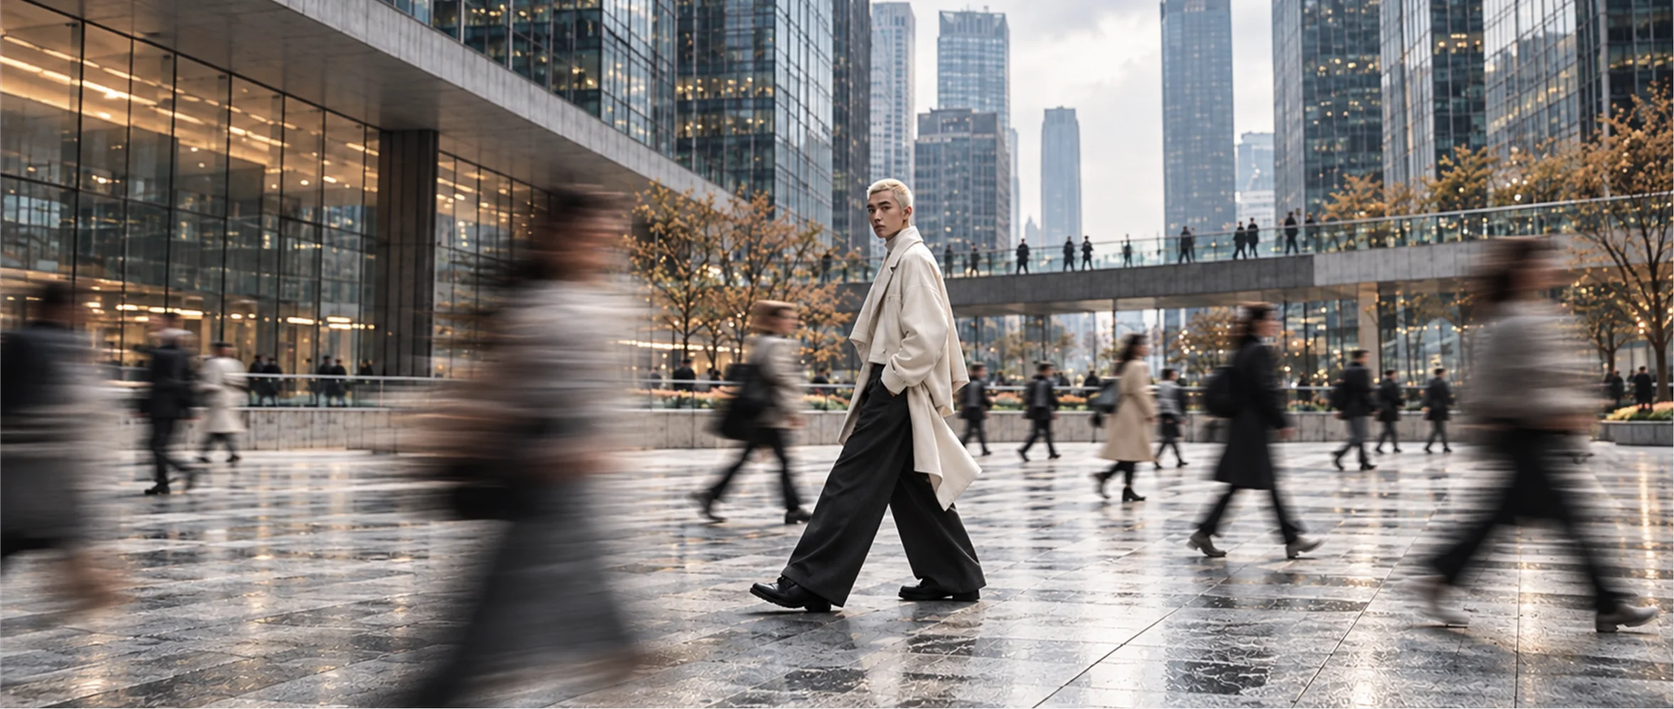
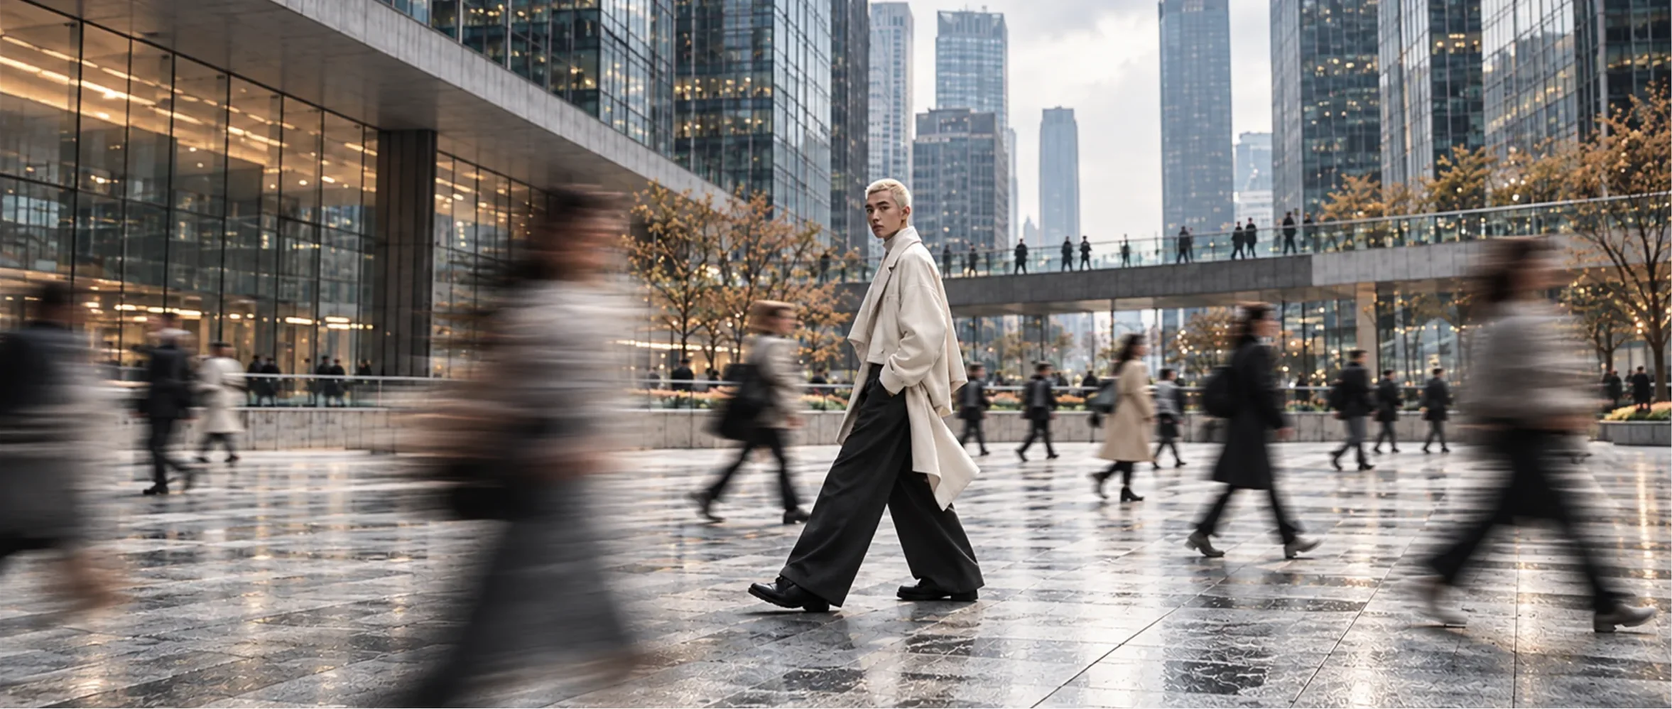
Cover both window margins with full-width photos
The bleed scale only guaranteed coverage on one side, so a strip of the
gradient over white showed at the left of the hero on wide windows.

diff --git a/index.html b/index.html
@@ -187,7 +187,7 @@ COAT</span></div><div class="n t" style="left:1744.4px;top:279.36px;width:66.67p
 <section class="screen" data-set="1920" data-slug="outfit" data-title="18 Outfit – Structured Balance" style="background:linear-gradient(#ffffff,#ffffff)"><div class="n" style="left:0px;top:0px;width:1920px;height:111.96px;background:linear-gradient(#ffffff,#ffffff)" data-b="0,0,1920,111.96" data-o="0,0,1920,112"><div class="n link t" style="left:795.07px;top:44.04px;width:65.33px;white-space:pre" data-b="795.07,44.04,65.33,22.67" data-go="looks"><span style="font-family:'Geist';font-weight:500;font-size:17px;letter-spacing:0.12em;line-height:22.67px;color:#121212">LOOKS</span></div><div class="n" style="left:795.07px;top:75.96px;width:65.07px;height:2px;background:linear-gradient(#121212,#121212)" data-b="795.07,75.96,65.07,2"></div><div class="n link t" style="left:917.07px;top:44.04px;width:74.67px;white-space:pre" data-b="917.07,44.04,74.67,22.67" data-go="fitting"><span style="font-family:'Geist';font-weight:500;font-size:17px;letter-spacing:0.12em;line-height:22.67px;color:#121212">FITTING</span></div><div class="n link t" style="left:1045.07px;top:44.04px;width:93.33px;white-space:pre" data-b="1045.07,44.04,93.33,22.67" data-go="motion-cards"><span style="font-family:'Geist';font-weight:500;font-size:17px;letter-spacing:0.12em;line-height:22.67px;color:#121212">JOURNAL</span></div><div class="n link" style="left:1833.07px;top:45.96px;width:34px;height:24px;overflow:hidden" data-b="1833.07,45.96,34,24" data-menu="1"><div class="n" style="left:1.07px;top:1.07px;width:32px;height:22px" data-b="1.07,1.07,32,22"><svg width="100%" height="100%" preserveAspectRatio="none" viewBox="0 0 24 17" fill="none" xmlns="http://www.w3.org/2000/svg"><path d="M0 0.75H24M0 8.25H24M0 15.75H24" stroke="#111111" stroke-width="1.5"/></svg></div></div></div><div class="n link photo" style="left:191.07px;top:168.96px;width:584px;height:795px;background:url(assets/img/05_structured_front.webp) center / cover no-repeat;border-radius:22px" data-b="191.07,168.96,584,795" data-o="191,169,584,795" data-go="look-a"></div><div class="n t" style="left:916px;top:141.96px;width:70.67px;white-space:pre" data-b="916,141.96,70.67,69.33" data-o="916,142,70,70"><span style="font-family:'Doto';font-weight:900;font-size:58px;line-height:69.33px;color:#121212">05</span></div><div class="n t" style="left:1023.07px;top:168px;width:94.67px;white-space:pre" data-b="1023.07,168,94.67,24" data-o="1023,168,95,23"><span style="font-family:'Geist';font-weight:400;font-size:18px;letter-spacing:0.18em;line-height:24px;color:#121212">LOOK 05</span></div><div class="n" style="left:1023.07px;top:209.04px;width:114px;height:1px;background:linear-gradient(#121212,#121212)" data-b="1023.07,209.04,114,1" data-o="1023,209,114,1"></div><div class="n t" style="left:915.07px;top:216px;width:837.33px;white-space:pre" data-b="915.07,216,837.33,100" data-o="915,216,837,100"><span style="font-family:'Geist';font-weight:400;font-size:77px;letter-spacing:-0.02em;line-height:100px;color:#121212">STRUCTURED BALANCE</span></div><div class="n t" style="left:919.07px;top:360px;width:192px;white-space:pre" data-b="919.07,360,192,24" data-o="919,360,192,23"><span style="font-family:'Geist';font-weight:400;font-size:18px;letter-spacing:0.25em;line-height:24px;color:#121212">OUTFIT DETAILS</span></div><div class="n" style="left:1145.07px;top:381px;width:654px;height:1px;background:linear-gradient(#121212,#121212)" data-b="1145.07,381,654,1" data-o="1145,381,654,1"></div><div class="n" style="left:922px;top:419.04px;width:166px;height:203.04px;background:url(assets/img/13_charcoal_coat_flatlay.webp) center / cover no-repeat;border-radius:16px" data-b="922,419.04,166,203.04" data-o="922,419,166,203"></div><div class="n t" style="left:1122px;top:447.96px;width:290.67px;white-space:pre" data-b="1122,447.96,290.67,33.33" data-o="1122,448,291,34"><span style="font-family:'Geist';font-weight:400;font-size:26px;line-height:33.33px;color:#121212">COAT 01 / WOOL DENIM</span></div><div class="n t" style="left:1122px;top:519.96px;width:86.67px;white-space:pre" data-b="1122,519.96,86.67,20" data-o="1122,520,87,20"><span style="font-family:'Geist';font-weight:400;font-size:15px;letter-spacing:0.15em;line-height:20px;color:#808080">MATERIAL</span></div><div class="n t" style="left:1282px;top:519.96px;width:116px;white-space:pre" data-b="1282,519.96,116,20" data-o="1282,520,116,20"><span style="font-family:'Geist';font-weight:400;font-size:15px;letter-spacing:0.15em;line-height:20px;color:#121212">WOOL DENIM</span></div><div class="n t" style="left:1122px;top:552px;width:82.67px;white-space:pre" data-b="1122,552,82.67,20" data-o="1122,552,83,20"><span style="font-family:'Geist';font-weight:400;font-size:15px;letter-spacing:0.15em;line-height:20px;color:#808080">RETAILER</span></div><div class="n t" style="left:1282px;top:552px;width:80px;white-space:pre" data-b="1282,552,80,20" data-o="1282,552,80,20"><span style="font-family:'Geist';font-weight:400;font-size:15px;letter-spacing:0.15em;line-height:20px;color:#121212">THE ROW</span></div><div class="n" style="left:1526px;top:453.96px;width:1px;height:144.96px;background:linear-gradient(#121212,#121212)" data-b="1526,453.96,1,144.96" data-o="1526,454,1,145"></div><div class="n t" style="left:1569.07px;top:459.96px;width:129.33px;white-space:pre" data-b="1569.07,459.96,129.33,18.67" data-o="1569,460,129,18"><span style="font-family:'Geist';font-weight:400;font-size:14px;letter-spacing:0.25em;line-height:18.67px;color:#121212">AVAILABLE AT</span></div><div class="n" style="left:1566px;top:503.04px;width:233.07px;height:63.96px;background:linear-gradient(#121212,#121212);border-radius:32px;overflow:hidden" data-b="1566,503.04,233.07,63.96" data-o="1566,503,233,64"><div class="n t" style="left:23.07px;top:23.04px;width:116px;white-space:pre" data-b="23.07,23.04,116,20" data-o="23,22,116,20"><span style="font-family:'Geist';font-weight:400;font-size:15px;letter-spacing:0.2em;line-height:20px;color:#ffffff">VISIT STORE</span></div><div class="n" style="left:188px;top:20.98px;width:22px;height:22px;overflow:hidden" data-b="188,20.98,22,22" data-o="188,21,22,22"><div class="n" style="left:4.93px;top:4.8px;width:12.27px;height:12.27px" data-b="4.93,4.8,12.27,12.27" data-o="5.5,5.5,11,11"><svg width="100%" height="100%" preserveAspectRatio="none" viewBox="0 0 10 10" fill="none" xmlns="http://www.w3.org/2000/svg"><path d="M0.397705 8.8125L8.64771 0.5625M8.64771 7.4375V0.5625H1.77271" stroke="white" stroke-width="1.125"/></svg></div></div></div><div class="n" style="left:922px;top:654px;width:878px;height:1px;background:linear-gradient(#121212,#121212)" data-b="922,654,878,1" data-o="922,654,878,1"></div><div class="n t" style="left:922px;top:687.96px;width:304px;white-space:pre" data-b="922,687.96,304,33.33" data-o="922,688,304,34"><span style="font-family:'Geist';font-weight:400;font-size:26px;letter-spacing:0.04em;line-height:33.33px;color:#121212">KNIT 02 / FINE MERINO</span></div><div class="n" style="left:1765.07px;top:691.03px;width:25.07px;height:25.07px;overflow:hidden" data-b="1765.07,691.03,25.07,25.07" data-o="1765,691,25,25"><div class="n" style="left:3.07px;top:3.07px;width:18.8px;height:18.8px" data-b="3.07,3.07,18.8,18.8" data-o="3.1,3.1,18.8,18.8"><svg width="100%" height="100%" preserveAspectRatio="none" viewBox="0 0 15 15" fill="none" xmlns="http://www.w3.org/2000/svg"><path d="M7.03125 0V14.0625M0 7.03125H14.0625" stroke="#111111" stroke-width="1.05"/></svg></div></div><div class="n" style="left:922px;top:747px;width:878px;height:1px;background:linear-gradient(#121212,#121212)" data-b="922,747,878,1" data-o="922,747,878,1"></div><div class="n t" style="left:922px;top:774.96px;width:360px;white-space:pre" data-b="922,774.96,360,33.33" data-o="922,775,360,34"><span style="font-family:'Geist';font-weight:400;font-size:26px;letter-spacing:0.04em;line-height:33.33px;color:#121212">TROUSER 03 / FLUID WOOL</span></div><div class="n" style="left:1765.07px;top:778.03px;width:25.07px;height:25.07px;overflow:hidden" data-b="1765.07,778.03,25.07,25.07" data-o="1765,778,25,25"><div class="n" style="left:3.07px;top:3.07px;width:18.8px;height:18.8px" data-b="3.07,3.07,18.8,18.8" data-o="3.1,3.1,18.8,18.8"><svg width="100%" height="100%" preserveAspectRatio="none" viewBox="0 0 15 15" fill="none" xmlns="http://www.w3.org/2000/svg"><path d="M7.03125 0V14.0625M0 7.03125H14.0625" stroke="#111111" stroke-width="1.05"/></svg></div></div><div class="n" style="left:922px;top:834px;width:878px;height:1px;background:linear-gradient(#121212,#121212)" data-b="922,834,878,1" data-o="922,834,878,1"></div><div class="n link btn" style="left:922px;top:885.96px;width:878px;height:63px;background:linear-gradient(#121212,#121212);border-radius:32px;overflow:hidden" data-b="922,885.96,878,63" data-o="922,886,878,63" data-go="look-a"><div class="n link t" style="left:290.67px;top:19.56px;width:222.67px;white-space:pre" data-b="290.67,19.56,222.67,26.67" data-o="290.5,18,223,27" data-go="look-a"><span style="font-family:'Geist';font-weight:400;font-size:21px;letter-spacing:0.18em;line-height:26.67px;color:#ffffff">OPEN FULL LOOK</span></div><div class="n" style="left:562.4px;top:19.03px;width:25.07px;height:25.07px;overflow:hidden" data-b="562.4,19.03,25.07,25.07" data-o="562.5,19,25,25"><div class="n" style="left:5.73px;top:5.47px;width:13.73px;height:13.73px" data-b="5.73,5.47,13.73,13.73" data-o="6.3,6.3,12.5,12.5"><svg width="100%" height="100%" preserveAspectRatio="none" viewBox="0 0 11 11" fill="none" xmlns="http://www.w3.org/2000/svg"><path d="M0.397705 9.9375L9.77271 0.5625M9.77271 8.375V0.5625H1.96021" stroke="white" stroke-width="1.125"/></svg></div></div></div><div class="n t" style="left:1207.07px;top:969.96px;width:270.67px;white-space:pre" data-b="1207.07,969.96,270.67,20" data-o="1207,970,270,20"><span style="font-family:'Geist';font-weight:400;font-size:15px;line-height:20px;color:#808080">You’ll continue on the retailer’s website.</span></div><div class="n logo link" style="left:53.33px;top:27.6px;width:130.27px;height:44px;background:#070706" data-b="53.33,27.6,130.27,44" data-go="hero"></div></section>
 <section class="screen" data-set="1920" data-slug="motion-cards" data-title="19 Home – Clothes in Motion Cards" style="background:linear-gradient(#ffffff,#ffffff)"><div class="n" style="left:0px;top:0px;width:1920px;height:111.96px;background:linear-gradient(#ffffff,#ffffff)" data-b="0,0,1920,111.96" data-o="0,0,1920,112"><div class="n link t" style="left:795.07px;top:44.04px;width:65.33px;white-space:pre" data-b="795.07,44.04,65.33,22.67" data-go="looks"><span style="font-family:'Geist';font-weight:500;font-size:17px;letter-spacing:0.12em;line-height:22.67px;color:#121212">LOOKS</span></div><div class="n" style="left:795.07px;top:75.96px;width:65.07px;height:2px;background:linear-gradient(#121212,#121212)" data-b="795.07,75.96,65.07,2"></div><div class="n link t" style="left:917.07px;top:44.04px;width:74.67px;white-space:pre" data-b="917.07,44.04,74.67,22.67" data-go="fitting"><span style="font-family:'Geist';font-weight:500;font-size:17px;letter-spacing:0.12em;line-height:22.67px;color:#121212">FITTING</span></div><div class="n link t" style="left:1045.07px;top:44.04px;width:93.33px;white-space:pre" data-b="1045.07,44.04,93.33,22.67" data-go="motion-cards"><span style="font-family:'Geist';font-weight:500;font-size:17px;letter-spacing:0.12em;line-height:22.67px;color:#121212">JOURNAL</span></div><div class="n link" style="left:1833.07px;top:45.96px;width:34px;height:24px;overflow:hidden" data-b="1833.07,45.96,34,24" data-menu="1"><div class="n" style="left:1.07px;top:1.07px;width:32px;height:22px" data-b="1.07,1.07,32,22"><svg width="100%" height="100%" preserveAspectRatio="none" viewBox="0 0 24 17" fill="none" xmlns="http://www.w3.org/2000/svg"><path d="M0 0.75H24M0 8.25H24M0 15.75H24" stroke="#111111" stroke-width="1.5"/></svg></div></div></div><div class="n link photo" style="left:52px;top:122.04px;width:628px;height:828px;background:url(assets/img/05_structured_front.webp) center / cover no-repeat;border-radius:25.07px" data-b="52,122.04,628,828" data-o="52,122,628,828" data-go="looks"></div><div class="n t" style="left:49.07px;top:954.96px;width:53.33px;white-space:pre" data-b="49.07,954.96,53.33,53.33" data-o="49,955,53,53"><span style="font-family:'Doto';font-weight:900;font-size:44px;line-height:53.33px;color:#121212">01</span></div><div class="n t" style="left:139.07px;top:978px;width:93.33px;white-space:pre" data-b="139.07,978,93.33,18.67" data-o="139,978,93,18"><span style="font-family:'Geist';font-weight:400;font-size:14px;letter-spacing:0.2em;line-height:18.67px;color:#121212">TAILORING</span></div><div class="n t" style="left:738px;top:348.96px;width:445.33px;white-space:pre" data-b="738,348.96,445.33,168" data-o="738,349,446,168"><span style="font-family:'Geist';font-weight:400;font-size:91px;letter-spacing:-0.02em;line-height:92%;color:#121212">CLOTHES
 IN MOTION</span></div><div class="n t" style="left:745.07px;top:567.96px;width:348px;white-space:pre" data-b="745.07,567.96,348,25.33" data-o="745,568,348,25"><span style="font-family:'Geist';font-weight:400;font-size:19px;letter-spacing:0.25em;line-height:25.33px;color:#121212">A MORE HUMAN APPROACH</span></div><div class="n link t" style="left:745.07px;top:710.04px;width:149.33px;white-space:pre" data-b="745.07,710.04,149.33,21.33" data-o="745,710,149,21" data-go="body"><span style="font-family:'Geist';font-weight:400;font-size:16px;letter-spacing:0.2em;line-height:21.33px;color:#121212">ENTER FITTING</span></div><div class="n" style="left:745.07px;top:735px;width:154px;height:1px;background:linear-gradient(#121212,#121212)" data-b="745.07,735,154,1" data-o="745,735,154,1"></div><div class="n link" style="left:933.07px;top:701.06px;width:38px;height:38px;overflow:hidden" data-b="933.07,701.06,38,38" data-o="933,701,38,38" data-go="body"><div class="n" style="left:3.2px;top:9.07px;width:31.07px;height:20px" data-b="3.2,9.07,31.07,20" data-o="3.2,9.5,30.1,19"><svg width="100%" height="100%" preserveAspectRatio="none" viewBox="0 0 24 15" fill="none" xmlns="http://www.w3.org/2000/svg"><path d="M0 7.49609H22.5625M15.4375 14.6211L22.5625 7.49609L15.4375 0.371094" stroke="#111111" stroke-width="1.05"/></svg></div></div><div class="n link photo" style="left:1211.07px;top:122.04px;width:304px;height:612.96px;background:url(assets/img/08_cream_sweater_male.webp) -121.45px -39.88px / 546.08px 691.13px no-repeat;border-radius:22px" data-b="1211.07,122.04,304,612.96" data-o="1211,122,304,613" data-go="looks"></div><div class="n t" style="left:1211.07px;top:747.96px;width:53.33px;white-space:pre" data-b="1211.07,747.96,53.33,53.33" data-o="1211,748,53,53"><span style="font-family:'Doto';font-weight:900;font-size:44px;line-height:53.33px;color:#121212">02</span></div><div class="n t" style="left:1308px;top:770.04px;width:101.33px;white-space:pre" data-b="1308,770.04,101.33,18.67" data-o="1308,770,102,18"><span style="font-family:'Geist';font-weight:400;font-size:14px;letter-spacing:0.2em;line-height:18.67px;color:#121212">SOFT FORM</span></div><div class="n link photo" style="left:1606px;top:303px;width:263.07px;height:632.04px;background:url(assets/img/09_utility_black_woman.webp) -56.95px -28.24px / 378.19px 688.8px no-repeat;border-radius:22px" data-b="1606,303,263.07,632.04" data-o="1606,303,263,632" data-go="looks"></div><div class="n t" style="left:1603.07px;top:945px;width:53.33px;white-space:pre" data-b="1603.07,945,53.33,53.33" data-o="1603,945,53,53"><span style="font-family:'Doto';font-weight:900;font-size:44px;line-height:53.33px;color:#121212">03</span></div><div class="n t" style="left:1695.07px;top:965.04px;width:65.33px;white-space:pre" data-b="1695.07,965.04,65.33,18.67" data-o="1695,965,65,18"><span style="font-family:'Geist';font-weight:400;font-size:14px;letter-spacing:0.2em;line-height:18.67px;color:#121212">UTILITY</span></div><div class="n logo link" style="left:53.33px;top:27.6px;width:130.27px;height:44px;background:#070706" data-b="53.33,27.6,130.27,44" data-go="hero"></div></section></div>
-<div class="stage" data-set="2048" data-w="2048" data-h="940" style="width:2048px;height:940px"><section class="screen" data-set="2048" data-slug="hero" data-title="20 Hero – City Motion" style="background:linear-gradient(#ffffff,#ffffff)"><div class="n" style="left:0px;top:73.11px;width:2048px;height:866.89px;background:url(assets/img/baked_hero_2048.webp) 0px -0.11px / 2123px 867px no-repeat" data-b="0,73.11,2048,866.89" data-o="0,84,1920,996"></div><div class="n" style="left:0px;top:0px;width:2048px;height:73.11px;background:linear-gradient(#ffffff,#ffffff)" data-b="0,0,2048,73.11" data-o="0,0,1920,84"></div><div class="n link t" style="left:800px;top:28.72px;width:63.83px;white-space:pre" data-b="800,28.72,63.83,20.89" data-o="750,33,73,23" data-go="looks"><span style="font-family:'Geist';font-weight:400;font-size:15.67px;letter-spacing:0.2em;line-height:20.89px;color:#121212">LOOKS</span></div><div class="n link t" style="left:956.87px;top:28.72px;width:76.59px;white-space:pre" data-b="956.87,28.72,76.59,20.89" data-o="897,33,88,24" data-go="fitting"><span style="font-family:'Geist';font-weight:400;font-size:16.01px;letter-spacing:0.2em;line-height:20.89px;color:#121212">FITTING</span></div><div class="n link t" style="left:1130.67px;top:28.72px;width:92.84px;white-space:pre" data-b="1130.67,28.72,92.84,20.89" data-o="1060,33,106,23" data-go="motion-cards"><span style="font-family:'Geist';font-weight:400;font-size:15.67px;letter-spacing:0.2em;line-height:20.89px;color:#121212">JOURNAL</span></div><div class="n link" style="left:1957.38px;top:27px;width:28.78px;height:26.11px;overflow:hidden" data-b="1957.38,27,28.78,26.11" data-o="1832,31,33,30" data-menu="1"><div class="n" style="left:0px;top:0px;width:28.78px;height:26.11px" data-b="0,0,28.78,26.11" data-o="0,1,33,28"><svg width="100%" height="100%" preserveAspectRatio="none" viewBox="0 0 25 23" fill="none" xmlns="http://www.w3.org/2000/svg"><path d="M0 0.75H24.75M0 11.25H24.75M0 21.75H24.75" stroke="#111111" stroke-width="1.5"/></svg></div></div><div class="n" style="left:0px;top:73.11px;width:977.07px;height:866.89px" data-b="0,73.11,977.07,866.89" data-o="916,84,996,996"><svg width="100%" height="100%" preserveAspectRatio="none" viewBox="0 0 687 830" fill="none" xmlns="http://www.w3.org/2000/svg"><rect x="687" y="3.05176e-05" width="830" height="747" transform="rotate(90 687 3.05176e-05)" fill="url(#paint0_linear_115_859-3)"/><defs><linearGradient id="paint0_linear_115_859-3" x1="1102" y1="3.05176e-05" x2="1102" y2="747" gradientUnits="userSpaceOnUse"><stop stop-color="#D9D9D9" stop-opacity="0"/><stop offset="1" stop-opacity="0.66"/></linearGradient></defs></svg></div><div class="n t" style="left:91.73px;top:381.22px;width:232.1px;white-space:pre" data-b="91.73,381.22,232.1,97.48" data-o="86,398,267,112"><span style="font-family:'Geist';font-weight:300;font-size:48.13px;letter-spacing:-0.02em;line-height:48.74px;color:#ffffff">CLOTHES
+<div class="stage" data-set="2048" data-w="2048" data-h="940" style="width:2048px;height:940px"><section class="screen" data-set="2048" data-slug="hero" data-title="20 Hero – City Motion" style="background:linear-gradient(#ffffff,#ffffff)"><div class="n" style="left:0px;top:73.11px;width:2048px;height:866.89px;background:url(assets/img/baked_hero_2048.webp) 1.74px -0.11px / 2121.26px 867px no-repeat" data-b="0,73.11,2048,866.89" data-o="0,84,1920,996"></div><div class="n" style="left:0px;top:0px;width:2048px;height:73.11px;background:linear-gradient(#ffffff,#ffffff)" data-b="0,0,2048,73.11" data-o="0,0,1920,84"></div><div class="n link t" style="left:800px;top:28.72px;width:63.83px;white-space:pre" data-b="800,28.72,63.83,20.89" data-o="750,33,73,23" data-go="looks"><span style="font-family:'Geist';font-weight:400;font-size:15.67px;letter-spacing:0.2em;line-height:20.89px;color:#121212">LOOKS</span></div><div class="n link t" style="left:956.87px;top:28.72px;width:76.59px;white-space:pre" data-b="956.87,28.72,76.59,20.89" data-o="897,33,88,24" data-go="fitting"><span style="font-family:'Geist';font-weight:400;font-size:16.01px;letter-spacing:0.2em;line-height:20.89px;color:#121212">FITTING</span></div><div class="n link t" style="left:1130.67px;top:28.72px;width:92.84px;white-space:pre" data-b="1130.67,28.72,92.84,20.89" data-o="1060,33,106,23" data-go="motion-cards"><span style="font-family:'Geist';font-weight:400;font-size:15.67px;letter-spacing:0.2em;line-height:20.89px;color:#121212">JOURNAL</span></div><div class="n link" style="left:1957.38px;top:27px;width:28.78px;height:26.11px;overflow:hidden" data-b="1957.38,27,28.78,26.11" data-o="1832,31,33,30" data-menu="1"><div class="n" style="left:0px;top:0px;width:28.78px;height:26.11px" data-b="0,0,28.78,26.11" data-o="0,1,33,28"><svg width="100%" height="100%" preserveAspectRatio="none" viewBox="0 0 25 23" fill="none" xmlns="http://www.w3.org/2000/svg"><path d="M0 0.75H24.75M0 11.25H24.75M0 21.75H24.75" stroke="#111111" stroke-width="1.5"/></svg></div></div><div class="n" style="left:0px;top:73.11px;width:977.07px;height:866.89px" data-b="0,73.11,977.07,866.89" data-o="916,84,996,996"><svg width="100%" height="100%" preserveAspectRatio="none" viewBox="0 0 687 830" fill="none" xmlns="http://www.w3.org/2000/svg"><rect x="687" y="3.05176e-05" width="830" height="747" transform="rotate(90 687 3.05176e-05)" fill="url(#paint0_linear_115_859-3)"/><defs><linearGradient id="paint0_linear_115_859-3" x1="1102" y1="3.05176e-05" x2="1102" y2="747" gradientUnits="userSpaceOnUse"><stop stop-color="#D9D9D9" stop-opacity="0"/><stop offset="1" stop-opacity="0.66"/></linearGradient></defs></svg></div><div class="n t" style="left:91.73px;top:381.22px;width:232.1px;white-space:pre" data-b="91.73,381.22,232.1,97.48" data-o="86,398,267,112"><span style="font-family:'Geist';font-weight:300;font-size:48.13px;letter-spacing:-0.02em;line-height:48.74px;color:#ffffff">CLOTHES
 IN MOTION</span></div><div class="n link btn" style="left:92.87px;top:512.61px;width:276.34px;height:47px;background:linear-gradient(#fbf8f3,#fbf8f3);border-radius:23.56px;overflow:hidden" data-b="92.87,512.61,276.34,47" data-o="87,549,259,54" data-go="body"><div class="n link t" style="left:41.67px;top:15.14px;width:120.69px;white-space:pre" data-b="41.67,15.14,120.69,18.57" data-o="39,16.5,139,21" data-go="body"><span style="font-family:'Geist';font-weight:400;font-size:14.02px;letter-spacing:0.14em;line-height:18.57px;color:#121212">ENTER FITTING</span></div><div class="n" style="left:215.8px;top:11.31px;width:24.37px;height:24.37px;overflow:hidden" data-b="215.8,11.31,24.37,24.37" data-o="200,13,28,28"><div class="n" style="left:0.93px;top:3.83px;width:23.56px;height:16.6px" data-b="0.93,3.83,23.56,16.6" data-o="1,5,26,18"><svg width="100%" height="100%" preserveAspectRatio="none" viewBox="0 0 21 15" fill="none" xmlns="http://www.w3.org/2000/svg"><path d="M0 7.17426H19.5M12.75 13.9243L19.5 7.17426L12.75 0.424255" stroke="#111111" stroke-width="1.2"/></svg></div></div></div><div class="n logo link" style="left:56.89px;top:24.02px;width:113.38px;height:38.3px;background:#070706" data-b="56.89,24.02,113.38,38.3" data-go="hero"></div></section>
 <section class="screen" data-set="2048" data-slug="home" data-title="07 Home – Cards" style="background:linear-gradient(#ffffff,#ffffff)"><div class="n" style="left:0px;top:0px;width:2048px;height:97.45px;background:linear-gradient(#ffffff,#ffffff)" data-b="0,0,2048,97.45" data-o="0,0,1920,112"><div class="n link t" style="left:848.07px;top:38.33px;width:56.86px;white-space:pre" data-b="848.07,38.33,56.86,19.73" data-go="looks"><span style="font-family:'Geist';font-weight:500;font-size:14.8px;letter-spacing:0.12em;line-height:19.73px;color:#121212">LOOKS</span></div><div class="n" style="left:848.07px;top:66.11px;width:69.4px;height:2px;background:linear-gradient(#121212,#121212)" data-b="848.07,66.11,69.4,2"></div><div class="n link t" style="left:978.2px;top:38.33px;width:64.99px;white-space:pre" data-b="978.2,38.33,64.99,19.73" data-go="fitting"><span style="font-family:'Geist';font-weight:500;font-size:14.8px;letter-spacing:0.12em;line-height:19.73px;color:#121212">FITTING</span></div><div class="n link t" style="left:1114.74px;top:38.33px;width:81.23px;white-space:pre" data-b="1114.74,38.33,81.23,19.73" data-go="motion-cards"><span style="font-family:'Geist';font-weight:500;font-size:14.8px;letter-spacing:0.12em;line-height:19.73px;color:#121212">JOURNAL</span></div><div class="n link" style="left:1680.14px;top:40px;width:29.59px;height:20.89px;overflow:hidden" data-b="1680.14,40,29.59,20.89" data-menu="1"><div class="n" style="left:0.93px;top:0.93px;width:27.85px;height:19.15px" data-b="0.93,0.93,27.85,19.15"><svg width="100%" height="100%" preserveAspectRatio="none" viewBox="0 0 24 17" fill="none" xmlns="http://www.w3.org/2000/svg"><path d="M0 0.75H24M0 8.25H24M0 15.75H24" stroke="#111111" stroke-width="1.5"/></svg></div></div><div class="n t" style="left:1841.07px;top:17.44px;width:103.28px;white-space:pre" data-b="1841.07,17.44,103.28,64.99"><span style="font-family:'Geist';font-weight:500;font-size:10.44px;letter-spacing:0.18em;line-height:155%;color:#121212">CLOTHES
 IN MOTION
@@ -295,6 +295,7 @@ IN MOTION</span></div><div class="n t" style="left:794.74px;top:494.34px;width:3
   // when the window ratio differs from the design (mx: side margin, my: bottom margin)
   function bleed(mx, my) {
     const sw = +stage.dataset.w, sh = +stage.dataset.h;
+    mx += 2; my += 2;                        // overscan so no sub-pixel edge shows
     stage.querySelectorAll('.screen > .n').forEach(el => {
       const b = el.dataset.b.split(',').map(Number);
       if (b[0] > 0.5 || b[2] < sw - 1) return;
@@ -308,8 +309,8 @@ IN MOTION</span></div><div class="n t" style="left:794.74px;top:494.34px;width:3
       const ps = (el._bg[1] || '').match(/^([\d.-]+)px ([\d.-]+)px$/);
       if (sz && ps) {
         const iw = +sz[1], ih = +sz[2], px = +ps[1], py = +ps[2];
-        const f = Math.max(1, w2 / iw, (h2 - py) / ih);
-        const cx = (b[2] / 2 - px) / iw;
+        const cx = (b[2] / 2 - px) / iw;        // image point under the element's centre
+        const f = Math.max(1, (w2 / 2) / (cx * iw), (w2 / 2) / ((1 - cx) * iw), (h2 - py) / ih);
         el.style.backgroundSize = iw * f + 'px ' + ih * f + 'px';
         el.style.backgroundPosition = (w2 / 2 - cx * iw * f) + 'px ' + py * f + 'px';
       }

diff --git a/tools/template.html b/tools/template.html
@@ -107,6 +107,7 @@
   // when the window ratio differs from the design (mx: side margin, my: bottom margin)
   function bleed(mx, my) {
     const sw = +stage.dataset.w, sh = +stage.dataset.h;
+    mx += 2; my += 2;                        // overscan so no sub-pixel edge shows
     stage.querySelectorAll('.screen > .n').forEach(el => {
       const b = el.dataset.b.split(',').map(Number);
       if (b[0] > 0.5 || b[2] < sw - 1) return;
@@ -120,8 +121,8 @@
       const ps = (el._bg[1] || '').match(/^([\d.-]+)px ([\d.-]+)px$/);
       if (sz && ps) {
         const iw = +sz[1], ih = +sz[2], px = +ps[1], py = +ps[2];
-        const f = Math.max(1, w2 / iw, (h2 - py) / ih);
-        const cx = (b[2] / 2 - px) / iw;
+        const cx = (b[2] / 2 - px) / iw;        // image point under the element's centre
+        const f = Math.max(1, (w2 / 2) / (cx * iw), (w2 / 2) / ((1 - cx) * iw), (h2 - py) / ih);
         el.style.backgroundSize = iw * f + 'px ' + ih * f + 'px';
         el.style.backgroundPosition = (w2 / 2 - cx * iw * f) + 'px ' + py * f + 'px';
       }

diff --git a/tools/build.py b/tools/build.py
@@ -93,7 +93,7 @@ BAKED = {
              'C / 01 Loading – Building Your Fit': {'0': ('baked_loading_1440', [0, 55.83, 1440, 844.17])}},
     '1920': {'C / 20 Hero – City Motion': {'0': ('baked_hero_1920', [0, 84, 1920, 996])},
              'C / 01 Loading – Building Your Fit': {'0': ('baked_loading_1920', [0, 67, 1920, 1013])}},
-    '2048': {'C / 20 Hero – City Motion': {'0': ('baked_hero_2048', [0, 73, 2123, 867])},
+    '2048': {'C / 20 Hero – City Motion': {'0': ('baked_hero_2048', [1.74, 73, 2121.26, 867])},
              'C / 01 Loading – Building Your Fit': {'0': ('baked_loading_2048', [0, 58.31, 2048, 881.69])}},
 }
 
